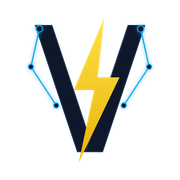
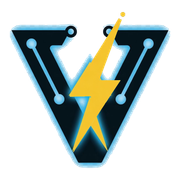
fix: mirror V using original design - flip left arm for right side, preserve bolt
- Uses actual uploaded logo as source (not recreated SVG)
- Left half flipped to create right side
- Bolt pixels preserved from original via color detection overlay
- Regenerated all icons and PDF base64

diff --git a/lib/logo-base64.ts b/lib/logo-base64.ts
@@ -1,1 +1,1 @@
[2 lines of base64/hex data omitted]

diff --git a/scripts/mirror-canvas.html b/scripts/mirror-canvas.html
@@ -1,0 +1,103 @@
+<!DOCTYPE html>
+<html>
+<head><title>Mirror Logo</title></head>
+<body style="background:#222;padding:20px">
+<h2 style="color:white">VoltSpec Logo Mirror Tool</h2>
+<p style="color:#aaa">Left: Original | Center: Left arm flipped | Right: Final (mirrored V + original bolt)</p>
+<div style="display:flex;gap:20px;flex-wrap:wrap">
+  <div>
+    <h3 style="color:#facc15">Original</h3>
+    <canvas id="original" style="border:1px solid #444"></canvas>
+  </div>
+  <div>
+    <h3 style="color:#facc15">Mirrored V</h3>
+    <canvas id="mirrored" style="border:1px solid #444"></canvas>
+  </div>
+  <div>
+    <h3 style="color:#facc15">Final Result</h3>
+    <canvas id="final" style="border:1px solid #444"></canvas>
+  </div>
+</div>
+<br>
+<button id="download" style="padding:10px 20px;font-size:16px;background:#facc15;border:none;cursor:pointer;border-radius:4px">Download Final PNG</button>
+<div id="status" style="color:#0ea5e9;margin-top:10px"></div>
+
+<script>
+const img = new Image();
+img.onload = () => {
+  const W = img.width, H = img.height;
+  const status = document.getElementById('status');
+  status.textContent = `Loaded: ${W}x${H}`;
+
+  // Setup canvases
+  const origCanvas = document.getElementById('original');
+  const mirrorCanvas = document.getElementById('mirrored');
+  const finalCanvas = document.getElementById('final');
+  [origCanvas, mirrorCanvas, finalCanvas].forEach(c => { c.width = W; c.height = H; });
+
+  const origCtx = origCanvas.getContext('2d');
+  const mirCtx = mirrorCanvas.getContext('2d');
+  const finCtx = finalCanvas.getContext('2d');
+
+  // Draw original
+  origCtx.drawImage(img, 0, 0);
+
+  // Center axis of the V
+  const CX = 395;
+
+  // Step 1: Create mirrored version
+  // Draw the left half as-is
+  mirCtx.drawImage(img, 0, 0, CX, H, 0, 0, CX, H);
+  // Draw the left half flipped for the right side
+  mirCtx.save();
+  mirCtx.translate(CX * 2, 0);
+  mirCtx.scale(-1, 1);
+  mirCtx.drawImage(img, 0, 0, CX, H, 0, 0, CX, H);
+  mirCtx.restore();
+
+  // Step 2: Build final — start with mirrored V
+  finCtx.drawImage(mirrorCanvas, 0, 0);
+
+  // Step 3: Extract and overlay ONLY the bolt from the original
+  const origData = origCtx.getImageData(0, 0, W, H);
+  const finData = finCtx.getImageData(0, 0, W, H);
+  const od = origData.data;
+  const fd = finData.data;
+
+  for (let i = 0; i < od.length; i += 4) {
+    const r = od[i], g = od[i+1], b = od[i+2];
+    
+    // Is this pixel yellow/gold (part of the bolt)?
+    const isYellow = r > 160 && g > 120 && b < 100 && (r - b) > 70;
+    // Is this a bright yellow highlight on the bolt?
+    const isBrightYellow = r > 200 && g > 180 && b < 80;
+    
+    if (isYellow || isBrightYellow) {
+      // Overlay bolt pixel from original onto the mirrored base
+      fd[i] = r;
+      fd[i+1] = g;
+      fd[i+2] = b;
+      fd[i+3] = 255;
+    }
+  }
+
+  finCtx.putImageData(finData, 0, 0);
+  status.textContent += ' | Mirror complete!';
+
+  // Download
+  document.getElementById('download').onclick = () => {
+    const a = document.createElement('a');
+    a.download = 'voltspec-logo-mirrored-final.png';
+    a.href = finalCanvas.toDataURL('image/png');
+    a.click();
+    status.textContent += ' | Downloaded!';
+  };
+
+  // Also expose for automation
+  window.__finalDataUrl = finalCanvas.toDataURL('image/png');
+  window.__mirrorDone = true;
+};
+img.src = '/voltspec-logo-source.jpg';
+</script>
+</body>
+</html>
